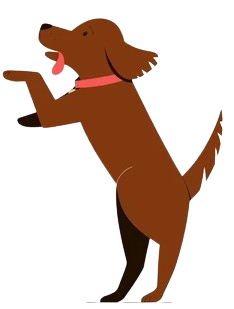
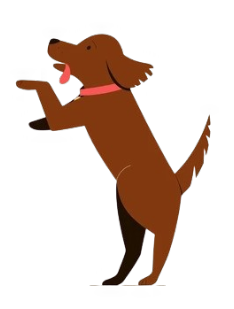
act lugares_parrilla, contorno del perro

Changed region(s): [[0.0, 0.0583, 0.9573, 0.9903], [0.5385, 0.5243, 0.5684, 0.5534]]

diff --git a/juego.py b/juego.py
@@ -40,25 +40,20 @@ def iniciar_juego():
         {"x": 175, "y": 100, "en_uso": False},
         {"x": 375, "y": 100, "en_uso": False},
         {"x": 575, "y": 100, "en_uso": False},
-        {"x": 825, "y": 100, "en_uso": False}
+        {"x": 725, "y": 100, "en_uso": False}
     ]
     
     # --- CONFIGURACIÓN DE LA PARRILLA ---
     lugares_parrilla = [
-        {"x": 375, "y": 550, "en_uso": False},
-        {"x": 575, "y": 550, "en_uso": False},
-        {"x": 175, "y": 550, "en_uso": False},
-        {"x": 825, "y": 550, "en_uso": False},
-        
-        {"x": 375, "y": 750, "en_uso": False},
-        {"x": 575, "y": 750, "en_uso": False},
-        {"x": 375, "y": 350, "en_uso": False},
-        {"x": 575, "y": 350, "en_uso": False},
-        
-        {"x": 175, "y": 750, "en_uso": False},
-        {"x": 825, "y": 750, "en_uso": False},
-        {"x": 175, "y": 350, "en_uso": False},
-        {"x": 825, "y": 350, "en_uso": False}
+        # Fila Superior (Y: 450)
+    {"x": 250, "y": 450, "en_uso": False}, # Izquierda
+    {"x": 500, "y": 450, "en_uso": False}, # Centro
+    {"x": 750, "y": 450, "en_uso": False}, # Derecha
+
+    # Fila Inferior (Y: 650)
+    {"x": 250, "y": 650, "en_uso": False}, # Izquierda
+    {"x": 500, "y": 650, "en_uso": False}, # Centro
+    {"x": 750, "y": 650, "en_uso": False}  # Derecha
     ]
     
     # Lista dinámica donde se guardarán todas las carnes que están vivas en pantalla
@@ -100,7 +95,7 @@ def iniciar_juego():
 
     imagen_perro = pygame.transform.scale(
         imagen_perro,
-        (200, 200)
+        (200, 275)
     )
 
     perro_rect = imagen_perro.get_rect(